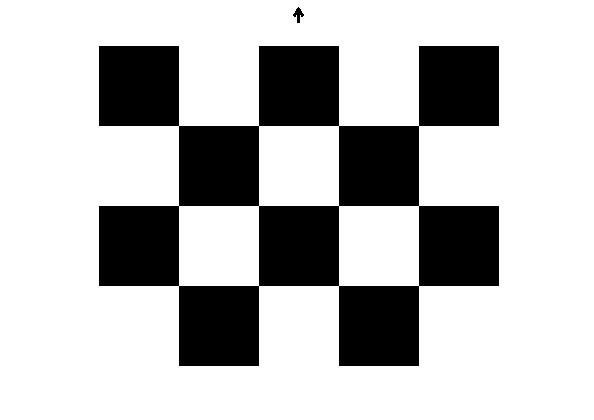
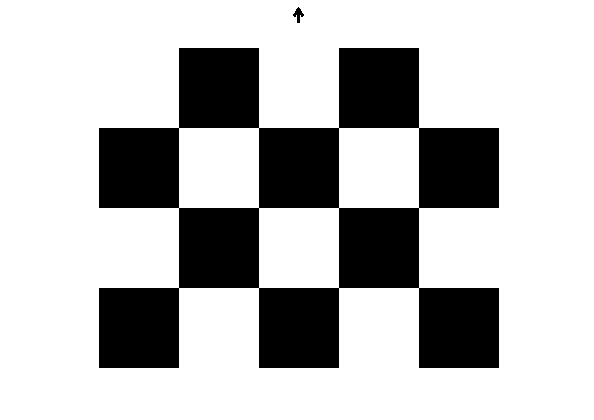
Fixed up-side-down pattern

diff --git a/src/game/SimpleAR.java b/src/game/SimpleAR.java
@@ -58,7 +58,6 @@ public class SimpleAR extends SimpleApplication {
 
 		viewPort.clearScenes();
 		viewPort.attachScene(cameraPicture);
-		viewPort.setClearFlags(false, true, true);
 
 		cameraPicture.updateGeometricState();
 

diff --git a/src/game/SimpleARWithNXT.java b/src/game/SimpleARWithNXT.java
@@ -18,6 +18,7 @@ public class SimpleARWithNXT extends SimpleAR {
 	public void simpleInitApp(){
 		pilotManager = new PilotManager(inputManager);
 		super.simpleInitApp();
+		
 	}
 	
 	@Override
